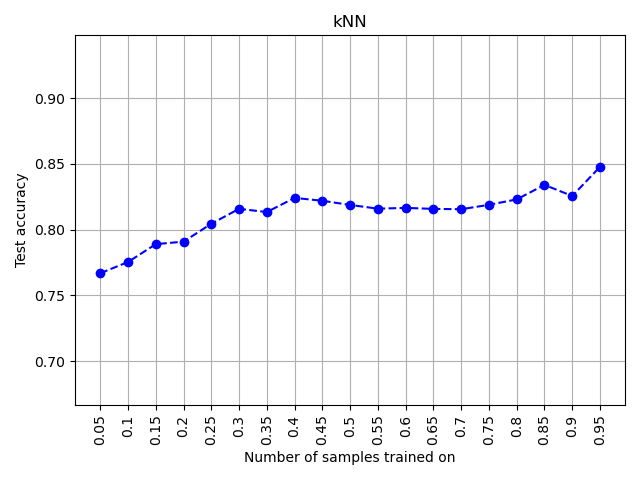
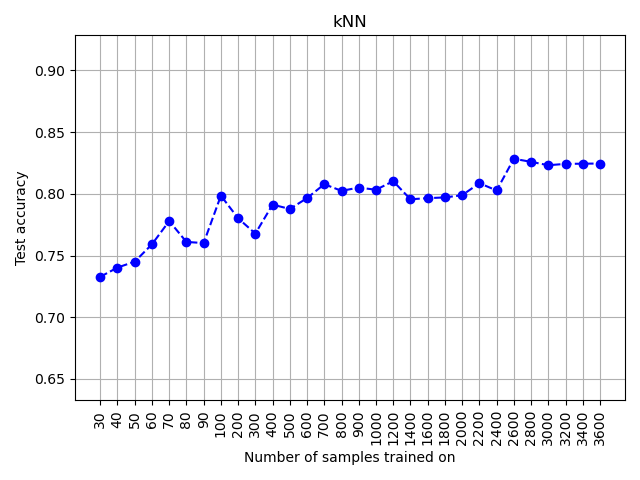
add acc plots for classfiers in readme

diff --git a/transfer_learning.py b/transfer_learning.py
@@ -36,7 +36,7 @@ if __name__ == "__main__":
     
     # Load saved embeddings of the data with unseen classes and split
     df = pd.read_pickle("embeddings_unseen.pkl")
-    #train_embeddings, test_embeddings = train_test_split(df, test_size=0.3, shuffle=True, random_state=0)
+    train_embeddings, test_embeddings = train_test_split(df, test_size=0.2, shuffle=True, random_state=0)
 
     svm_classifier = make_pipeline(StandardScaler(), SVC(gamma="auto"))
     linear_classifier = make_pipeline(StandardScaler(), SGDClassifier(max_iter=1000, tol=1e-3))
@@ -48,12 +48,12 @@ if __name__ == "__main__":
     linear_accuracies = []
     knn_accuracies = []
 
-    #sample_range = chain(range(30, 100, 10), range(100, 1000, 100), range(1000, len(train_embeddings), 200))
-    for ratio in tqdm([x/20 for x in range(1,20)]):
+    sample_range = chain(range(30, 100, 10), range(100, 1000, 100), range(1000, len(train_embeddings), 200))
+    #for ratio in tqdm([x/20 for x in range(1,20)]):
+    for n in tqdm(list(sample_range)):
         # Fit models
-        train_embeddings, test_embeddings = train_test_split(df, test_size=1-ratio, shuffle=True, random_state=0)
-        X_train = train_embeddings.iloc[:, 2:]
-        y_train = train_embeddings.loc[:, "label_idx"]
+        X_train = train_embeddings.iloc[:n, 2:]
+        y_train = train_embeddings.loc[:, "label_idx"].iloc[:n]
         svm_classifier.fit(X_train, y_train)
         linear_classifier.fit(X_train, y_train)
         knn_classifier.fit(X_train, y_train)
@@ -73,7 +73,7 @@ if __name__ == "__main__":
         svc_accuracies.append(svc_accuracy)
         linear_accuracies.append(linear_accuracy)
         knn_accuracies.append(knn_accuracy)
-        n_samples.append(ratio)
+        n_samples.append(n)
 
     save_accuracy_plot(svc_accuracies, n_samples, "SVC")
     save_accuracy_plot(linear_accuracies, n_samples, "Linear")
